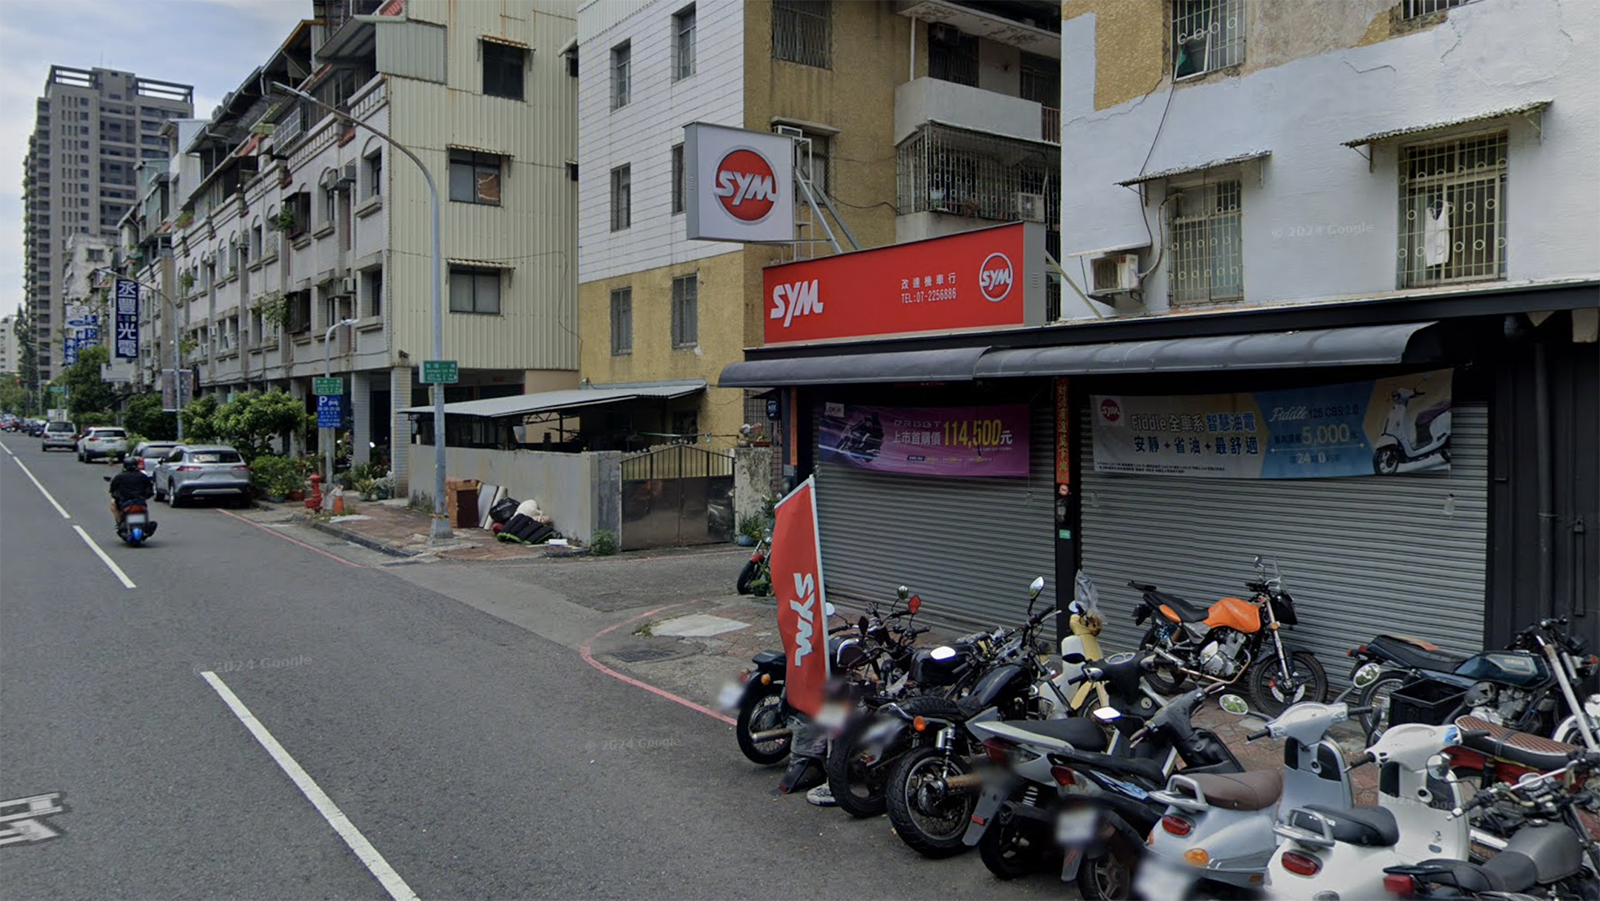
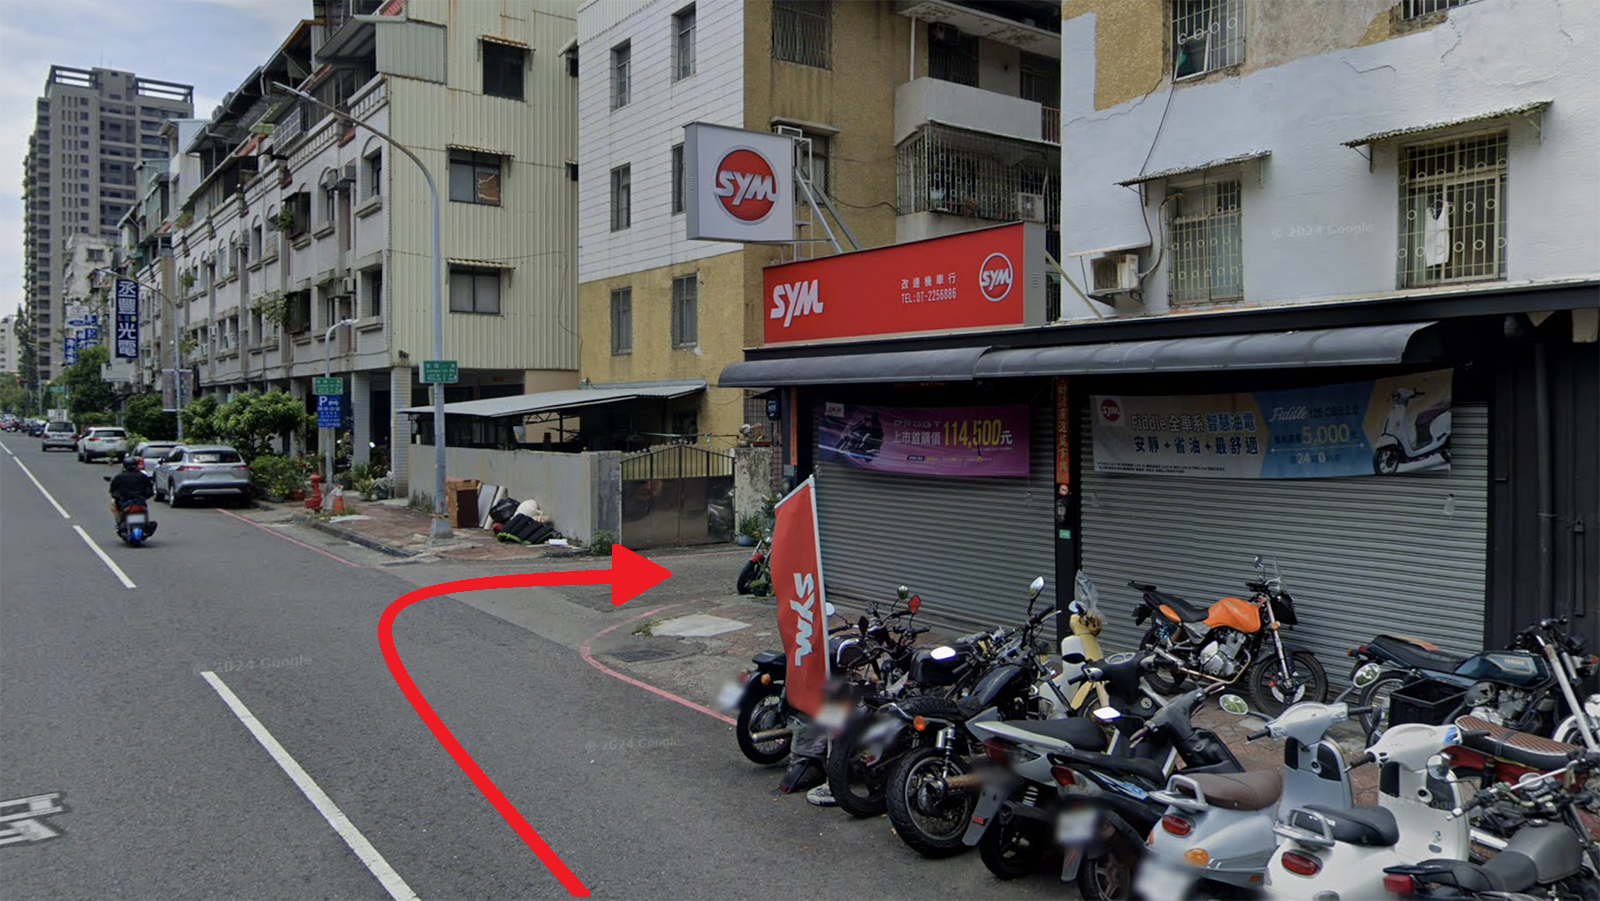
revise info and upload new pictures

Changed region(s): [[0.25, 0.7458, 0.375, 0.9945], [0.2812, 0.5905, 0.4375, 0.6837], [0.2188, 0.6526, 0.2812, 0.7458]]

diff --git a/index.html b/index.html
@@ -21,15 +21,17 @@
         <div style="text-align: center; margin: 30px 0;">
             <h2 style="color: var(--railway-blue); margin-bottom: 10px; font-size: 1.5rem;">新址啟航</h2>
             <p style="font-size: 1.2rem; font-weight: bold; margin-bottom: 5px;">高雄市三民區建國一路402巷5弄7號</p>
-            <p style="color: #666; font-size: 0.95rem;">🚉 民族車站出口步行約 11 分鐘</p>
         </div>
         
         <a href="https://www.google.com/maps/dir/?api=1&destination=高雄市三民區建國一路402巷5弄7號" target="_blank" class="nav-button">🧭 開啟 Google 地圖導航</a>
 
         <hr>
 
-        <div class="section-divider">🚂 方案 A：搭乘台鐵 (民族車站)</div>
-
+        <div class="section-divider">
+            🚂 方案 A：搭乘台鐵 (民族車站)
+            <span style="font-size: 0.85rem; color: #666; margin-left: 10px; font-weight: normal;">(👣 步行約 11 分鐘)</span>
+        </div>
+        
         <div class="step-card">
             <h3><span class="badge">第一步</span> 於民族車站下車</h3>
             <p>出站後，請沿著鐵道旁的<strong>凱旋一路</strong>（往南方向）直行。</p>
@@ -44,10 +46,10 @@
         </div>
 
         <div class="step-card">
-            <h3><span class="badge">第二步</span> 轉入建國路巷弄</h3>
+            <h3><span class="badge">第二步</span> 右轉建國路巷弄</h3>
             <p>看到 <strong>SYM 三陽機車行</strong> 時，請右轉進入 <strong>402 巷 6 弄</strong>。</p>
             
-            <img src="picture/TR_Minzu_step2.png" alt="SYM機車行路口" class="step-img">
+            <img src="picture/TR_Minzu_step2.png" alt="SYM機車行路口_TR" class="step-img">
             
             <div class="link-container">
                 <a href="https://www.google.com/maps/@22.6354478,120.3194929,0a,97.3y,206.71h,83.87t/data=!3m4!1e1!3m2!1sqvpkz0RQZys3X-13KVT3FQ!2e0?source=apiv3" target="_blank" class="street-link">🌏 開啟街景確認位置</a>
@@ -78,20 +80,103 @@
             <small>💡 提示：看到熟悉的張姐了嗎？歡迎進來坐坐，交流鐵道模型心得！</small>
         </div>
 
-        <div class="section-divider">🚇 方案 B：搭乘捷運</div>
-        <div class="construction-card">
-            <div class="construction-icon">🚧</div>
-            <div class="construction-title">捷運轉乘指引製作中</div>
-            <p class="construction-text">我們正在繪製從最近捷運站（文化中心站）的最佳路線，敬請期待！</p>
+        <div class="section-divider">
+            🚇 方案 B：搭乘捷運 (文化中心站) 
+            <span style="font-size: 0.85rem; color: #666; margin-left: 10px; font-weight: normal;">(👣 步行約 13-15 分鐘)</span>
         </div>
 
-        <div class="section-divider">🅿 開車前往與停車資訊</div>
-        <div class="construction-card">
-            <div class="construction-icon">🚗</div>
-            <div class="construction-title">停車資訊整理中</div>
-            <p class="construction-text">正在為您統整周邊收費停車場與路邊停車格位置，確保您愛車好停放。</p>
+        <div class="step-card">
+            <h3><span class="badge">第一步</span> 4 號出口出發</h3>
+            <p>從 <strong>文化中心站 4 號出口</strong> 出站後，請往 <strong>和平一路</strong> 方向走，並<strong>右轉</strong>沿著和平一路（往北/大統百貨方向）直行。</p>
+
+            <img src="picture/MRT_Cultural_Center_step1.png" alt="文化中心4號出口街景" class="step-img">
+
+            <div class="link-container">
+                <a href="<iframe src="https://www.google.com/maps/embed?pb=!4v1770562394680!6m8!1m7!1sA-rCQXMEl-vc24hkQ6KCxQ!2m2!1d22.63027499117236!2d120.318291940128!3f6.14887922883139!4f5.9222386985559154!5f0.7820865974627469" width="600" height="450" style="border:0;" allowfullscreen="" loading="lazy" referrerpolicy="no-referrer-when-downgrade"></iframe>" target="_blank" class="street-link">🌏 開啟街景確認位置</a>
+            </div>
+            
+            <small>💡 提示：出站後順著和平路往北走即可，不用過馬路。</small>
         </div>
 
+        <div class="step-card">
+            <h3><span class="badge">第二步</span> 右轉六合路</h3>
+            <p>沿著和平一路直行，遇到 <strong>六合路</strong> 時請<strong>右轉</strong>。順著這條路一路走到底，就會抵達 <strong>建國一路</strong>。</p>
+
+            <img src="picture/MRT_Cultural_Center_step2.png" alt="和平路六合路交叉口" class="step-img">
+
+            <div class="link-container">
+                <a href="<iframe src="https://www.google.com/maps/embed?pb=!4v1770562459806!6m8!1m7!1sCg0i3WCHjydMisa8GDKptg!2m2!1d22.63173783823481!2d120.317430613602!3f352.1393288594212!4f-5.214231549047639!5f0.7820865974627469" width="600" height="450" style="border:0;" allowfullscreen="" loading="lazy" referrerpolicy="no-referrer-when-downgrade"></iframe>" target="_blank" class="street-link">🌏 開啟街景確認位置</a>
+            </div>
+
+            <small>💡 提示：六合路有許多小吃跟飲料，不趕時間的話，不妨順手帶杯涼的或點心，享受悠閒的散步時光。</small>
+        </div>
+
+        <div class="step-card">
+            <h3><span class="badge">第三步</span> 過馬路後左轉建國路</h3>
+            <p>六合路走到底遇到 <strong>建國一路</strong> 時，請務必先<strong>過馬路到對面</strong>，再<strong>左轉</strong>沿著人行道直行。</p>
+
+            <img src="picture/MRT_Cultural_Center_step3.png" alt="六合路建國路交叉口" class="step-img">
+
+            <div class="link-container">
+                <a href="<iframe src="https://www.google.com/maps/embed?pb=!4v1770562495638!6m8!1m7!1sncq2k8JCf3GCvfBapAu2Ow!2m2!1d22.63364095781708!2d120.3196192464685!3f14.135860078420544!4f-6.352816872016163!5f0.7820865974627469" width="600" height="450" style="border:0;" allowfullscreen="" loading="lazy" referrerpolicy="no-referrer-when-downgrade"></iframe>" target="_blank" class="street-link">🌏 開啟街景確認位置</a>
+            </div>
+
+            <small>💡 重要提示：請在有紅綠燈的六合路口先跨越建國路！若直接左轉，走到 402 巷口時會沒有斑馬線可以過馬路喔。</small>
+        </div>
+
+        <div class="step-card">
+            <h3><span class="badge">第四步</span> 右轉 402 巷</h3>
+            <p>看到 <strong>SYM 三陽機車行</strong> 時，請<strong>右轉</strong>進入 402 巷。</p>
+            
+            <img src="picture/MRT_Cultural_Center_step4.png" alt="SYM機車行路口_MRT" class="step-img">
+
+            <div class="link-container">
+                <a href="<iframe src="https://www.google.com/maps/embed?pb=!4v1770562514404!6m8!1m7!1s7g8rKcInq4BAA0Ax-KfXHA!2m2!1d22.63403650618821!2d120.3191596841229!3f295.02340910232573!4f-0.27271018292212545!5f0.7820865974627469" width="600" height="450" style="border:0;" allowfullscreen="" loading="lazy" referrerpolicy="no-referrer-when-downgrade"></iframe>" target="_blank" class="street-link">🌏 開啟街景確認位置</a>
+            </div>
+            
+            <small>💡 提示：請留意從巷口出來的車輛。</small>
+        </div>
+
+        <div class="step-card">
+            <h3><span class="badge">第五步</span> 看見佛堂左轉</h3>
+            <p>進入巷子後直走，看到 <strong>「感恩佛堂」</strong> 請<strong>左轉</strong>進入 5 弄，新址就在左前方！</p>
+            
+            <img src="picture/MRT_Cultural_Center_step5.png" alt="感恩佛堂路口" class="step-img">
+
+            <div class="link-container">
+                <a href="<iframe src="https://www.google.com/maps/embed?pb=!4v1770562548855!6m8!1m7!1s730uzVafd1xyC_qtMb7qdA!2m2!1d22.6350204334216!2d120.318950447658!3f344.23576169399195!4f-0.5055102066675374!5f0.7820865974627469" width="600" height="450" style="border:0;" allowfullscreen="" loading="lazy" referrerpolicy="no-referrer-when-downgrade"></iframe>" target="_blank" class="street-link">🌏 開啟街景確認位置</a>
+            </div>
+
+            <small>💡 提示：請留意從巷口出來的車輛。</small>
+        </div>
+
+        <div class="step-card">
+            <h3><span class="badge">第六步</span> 抵達新據點</h3>
+            <p>進入 5 弄後，左前方 <strong>7 號</strong> 即是我們的新空間！</p>
+            
+            <img src="picture/professional_model_destnation.png" alt="店面外觀" class="step-img">
+            
+            <small>💡 提示：看到熟悉的張姐了嗎？歡迎進來坐坐，交流鐵道模型心得！</small>
+        </div>
+
+        <div class="section-divider">🅿 停車資訊</div>
+        <div class="step-card">
+            <h3><span class="badge">停車場</span> ViVi PARK 凱歌路二站</h3>
+            <p>建議停放於此停車場。停好車後，請直接走<strong>停車場後方的小通道</strong>。</p>
+            <p>穿過通道後，您就會在<strong>右手邊前方</strong>看到我們的店面囉！</p>
+            
+            <div class="link-container">
+                <a href="https://maps.app.goo.gl/MEmkcENzT68KL1Hc9" target="_blank" class="street-link">🅿 導航至停車場</a>
+            </div>
+
+            <small>💡 提示：走這個後門捷徑非常快就可以到新店面囉！</small>
+        </div>
+
+        <div class="emergency-contact">
+            <div class="emergency-title">😵 附近繞了很久還是找不到？</div>
+            <p style="color: #666; margin-bottom: 15px;">別擔心，直接打電話給我們，馬上為您指路！</p>
+            <a href="tel:0929063160" class="call-button">📞 0929-063-160 (找張姐)</a>
+        </div>
     </section>
 
     <footer class="footer-info">

diff --git a/style.css b/style.css
@@ -195,31 +195,40 @@ small {
     border-radius: 2px;
 }
 
-/* --- 新增：施工中/建置中區塊樣式 --- */
-.construction-card {
-    border: 2px dashed #ccc; /* 使用虛線代表未完成 */
-    background-color: #fafafa; /* 淺灰背景 */
-    border-radius: 8px;
-    padding: 30px;
+/* --- 新增：緊急聯絡人區塊 --- */
+.emergency-contact {
+    background-color: #fff8e1; /* 淡淡的鵝黃色背景，很顯眼 */
+    border: 2px solid #ffecb3;
+    border-radius: 10px;
+    padding: 25px;
     text-align: center;
-    margin-bottom: 20px;
-    color: #888;
+    margin: 30px 0;
 }
 
-.construction-icon {
-    font-size: 2rem;
-    margin-bottom: 10px;
-    opacity: 0.5;
-}
-
-.construction-title {
-    font-size: 1.1rem;
+.emergency-title {
+    color: #f57f17; /* 深橘黃色文字 */
     font-weight: bold;
-    color: #666;
-    margin-bottom: 5px;
+    font-size: 1.1rem;
+    margin-bottom: 15px;
 }
 
-.construction-text {
-    font-size: 0.9rem;
-    color: #999;
+.call-button {
+    display: inline-block;
+    background-color: #ff9800; /* 亮橘色按鈕 */
+    color: white;
+    text-decoration: none;
+    padding: 12px 30px;
+    border-radius: 50px;
+    font-weight: bold;
+    font-size: 1.1rem;
+    box-shadow: 0 3px 6px rgba(0,0,0,0.16);
+    transition: transform 0.2s;
+}
+
+.call-button:hover {
+    background-color: #f57c00;
+}
+
+.call-button:active {
+    transform: scale(0.95); /* 按下去會有縮小效果 */
 }
